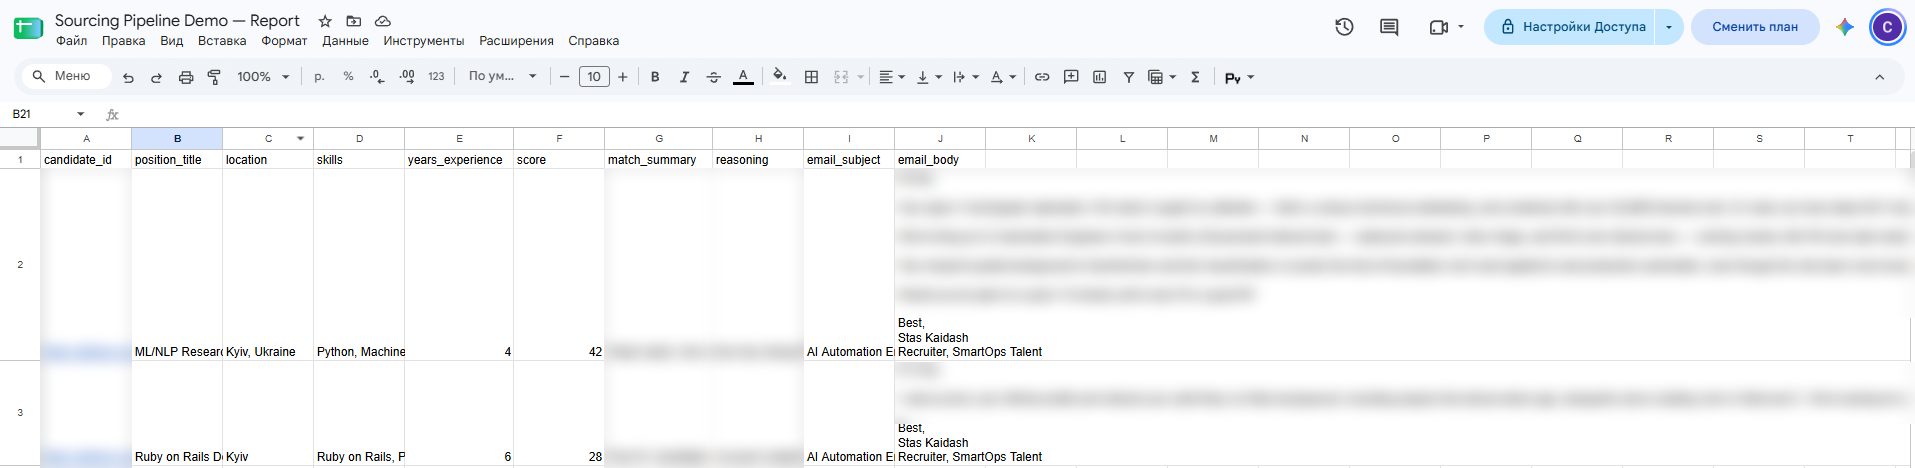
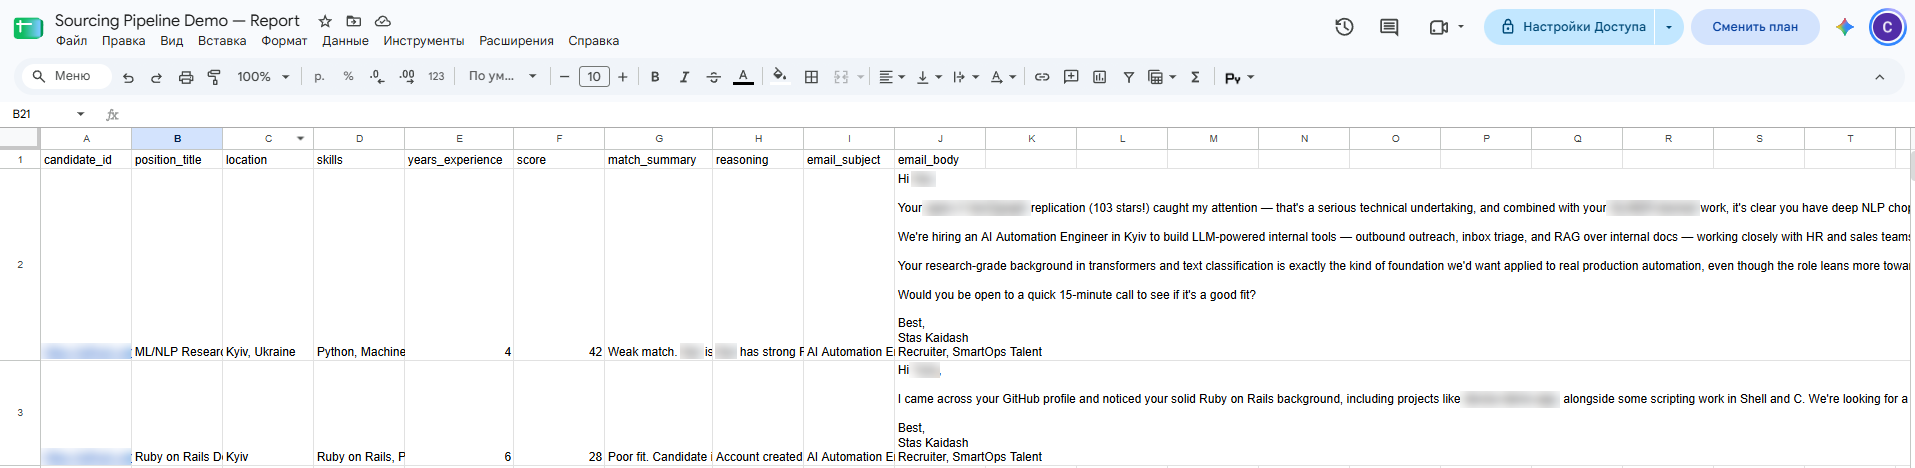
Show email drafts in sheet screenshot, blur only names, profile links and repo names

diff --git a/README.md b/README.md
@@ -15,7 +15,7 @@ No code nodes, no scripts. A recruiter can change the role, the search and the s
 5. **Draft.** Claude Sonnet 5 writes a short personalized email for each shortlisted candidate, referencing a concrete repo or skill from their profile, signed by the recruiter.
 6. **Report.** Appends one row per candidate to Google Sheets. Emails are drafts: nothing is sent automatically.
 
-![Google Sheets report (candidate data blurred)](docs/screenshots/02-google-sheet.png)
+![Google Sheets report (names, profile links and repo names blurred)](docs/screenshots/02-google-sheet.png)
 
 ## Workflow, node by node
 
@@ -63,7 +63,7 @@ GitHub calls work without a token (60 requests/hour, enough for a run). For regu
 
 ## Data and privacy
 
-The workflow reads public GitHub profiles at runtime. Candidate data is stored only in the private Google Sheet the recruiter owns; nothing is committed to this repo. Screenshots have names, logins and profile links blurred.
+The workflow reads public GitHub profiles at runtime. Candidate data is stored only in the private Google Sheet the recruiter owns; nothing is committed to this repo. Screenshots have candidate names, profile links and repo names blurred; the rest of the output (scores, reasoning, email text) is shown as generated.
 
 ## Next steps
 
